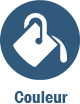
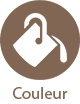
chgt boutons

diff --git a/GooDog/src/vuegraphique/PanConfig.java b/GooDog/src/vuegraphique/PanConfig.java
@@ -299,7 +299,7 @@ public class PanConfig extends JPanel {
 		boutonConfigSon.addMouseListener(new MouseListener() {
 			@Override
 			public void mouseReleased(MouseEvent e) {
-				boutonConfigSon.setIcon(configIndexIcon);
+				boutonConfigSon.setIcon(configIndexIconClick);
 			}
 			@Override
 			public void mousePressed(MouseEvent e) {
@@ -421,7 +421,7 @@ public class PanConfig extends JPanel {
 		boutonConfigImage.addMouseListener(new MouseListener() {
 			@Override
 			public void mouseReleased(MouseEvent e) {
-				boutonConfigImage.setIcon(configIndexIcon);
+				boutonConfigImage.setIcon(configIndexIconClick);
 			}
 			@Override
 			public void mousePressed(MouseEvent e) {
@@ -606,7 +606,7 @@ public class PanConfig extends JPanel {
 						boutonConfigTexte.addMouseListener(new MouseListener() {
 							@Override
 							public void mouseReleased(MouseEvent e) {
-								boutonConfigTexte.setIcon(configIndexIcon);
+								boutonConfigTexte.setIcon(configIndexIconClick);
 							}
 							@Override
 							public void mousePressed(MouseEvent e) {

diff --git a/GooDog/src/vuegraphique/FrameConnexion.java b/GooDog/src/vuegraphique/FrameConnexion.java
@@ -60,7 +60,7 @@ public class FrameConnexion extends JFrame{
 	}	
 	
 	private void initBoxMiseEnPageConnexion() {
-		panel.setBackground(new Color(48,89,124));
+		panel.setBackground(new Color(128,102,83));
 		boxMiseEnPageConnexion.add(Box.createRigidArea(new Dimension(0,10)));
 		
 		boxMiseEnPageConnexion.add(getError()); //ajout du label d'erreur 
